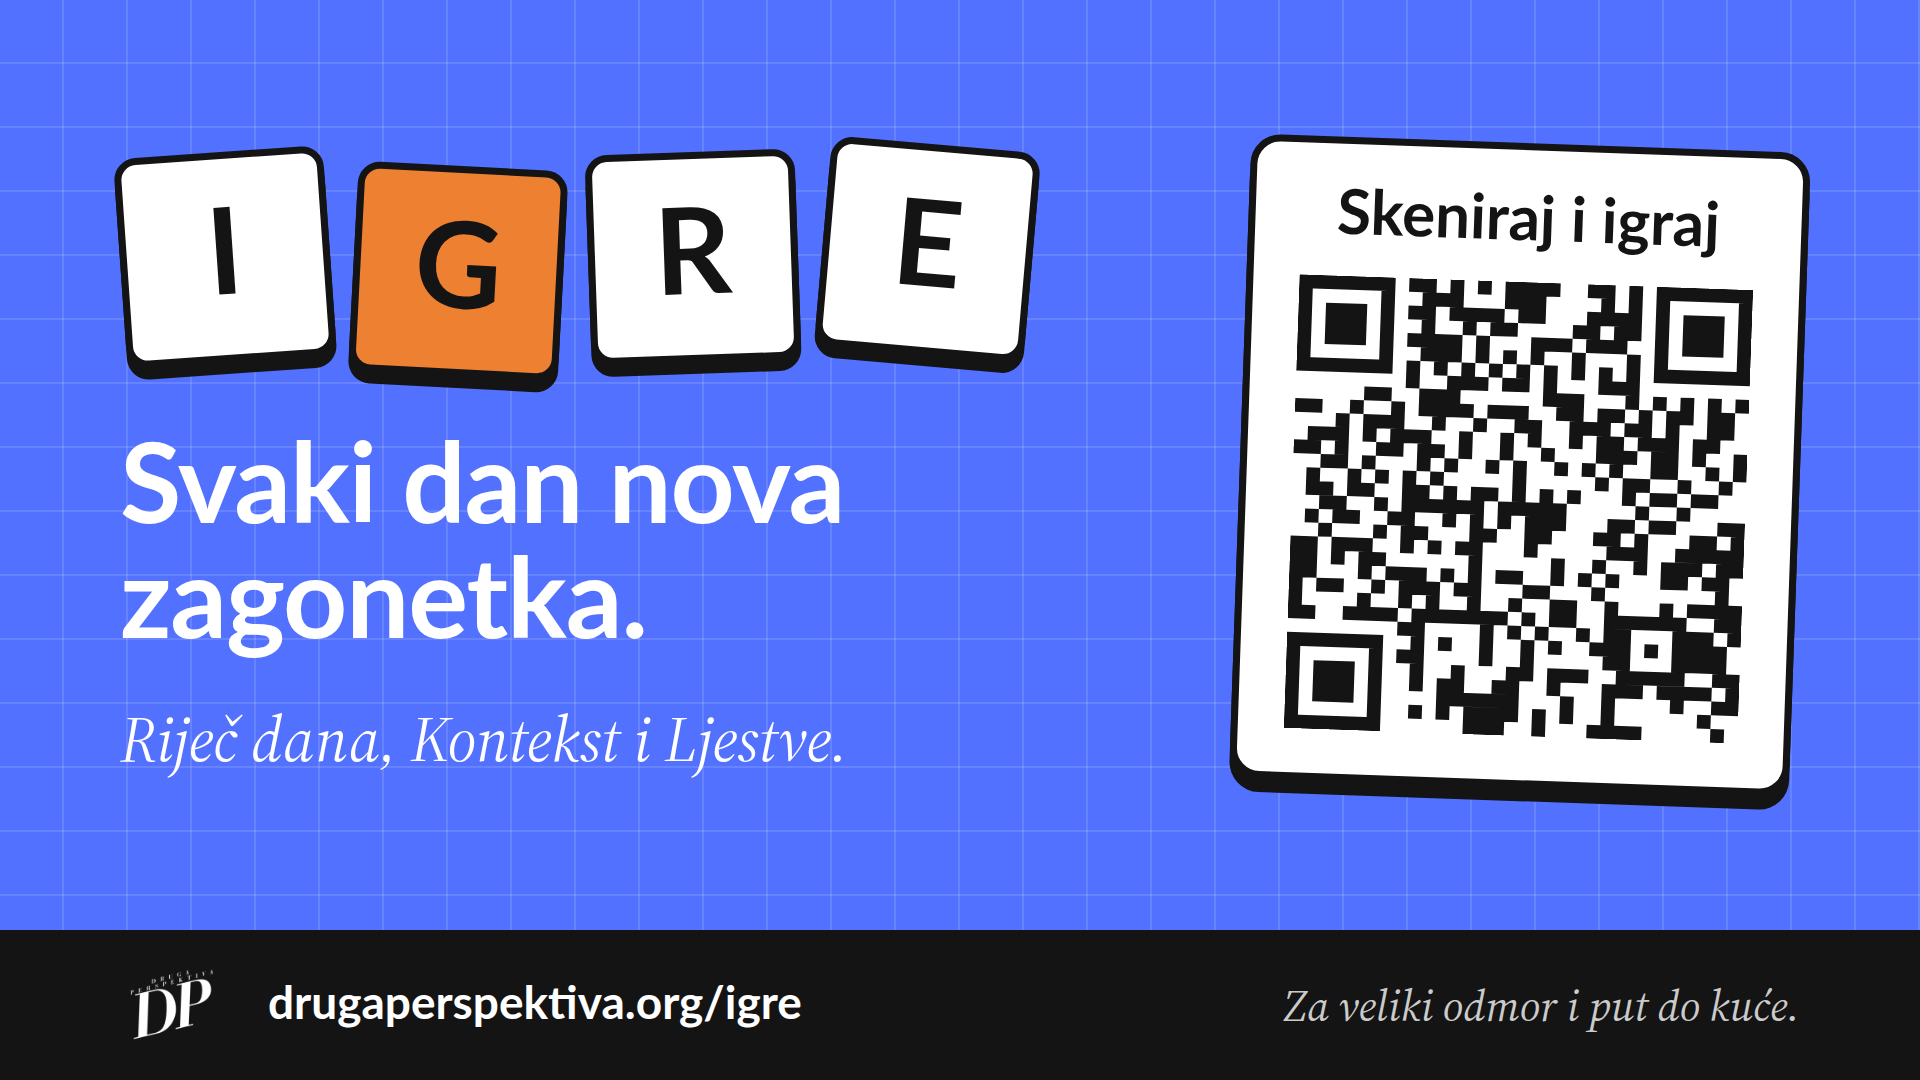
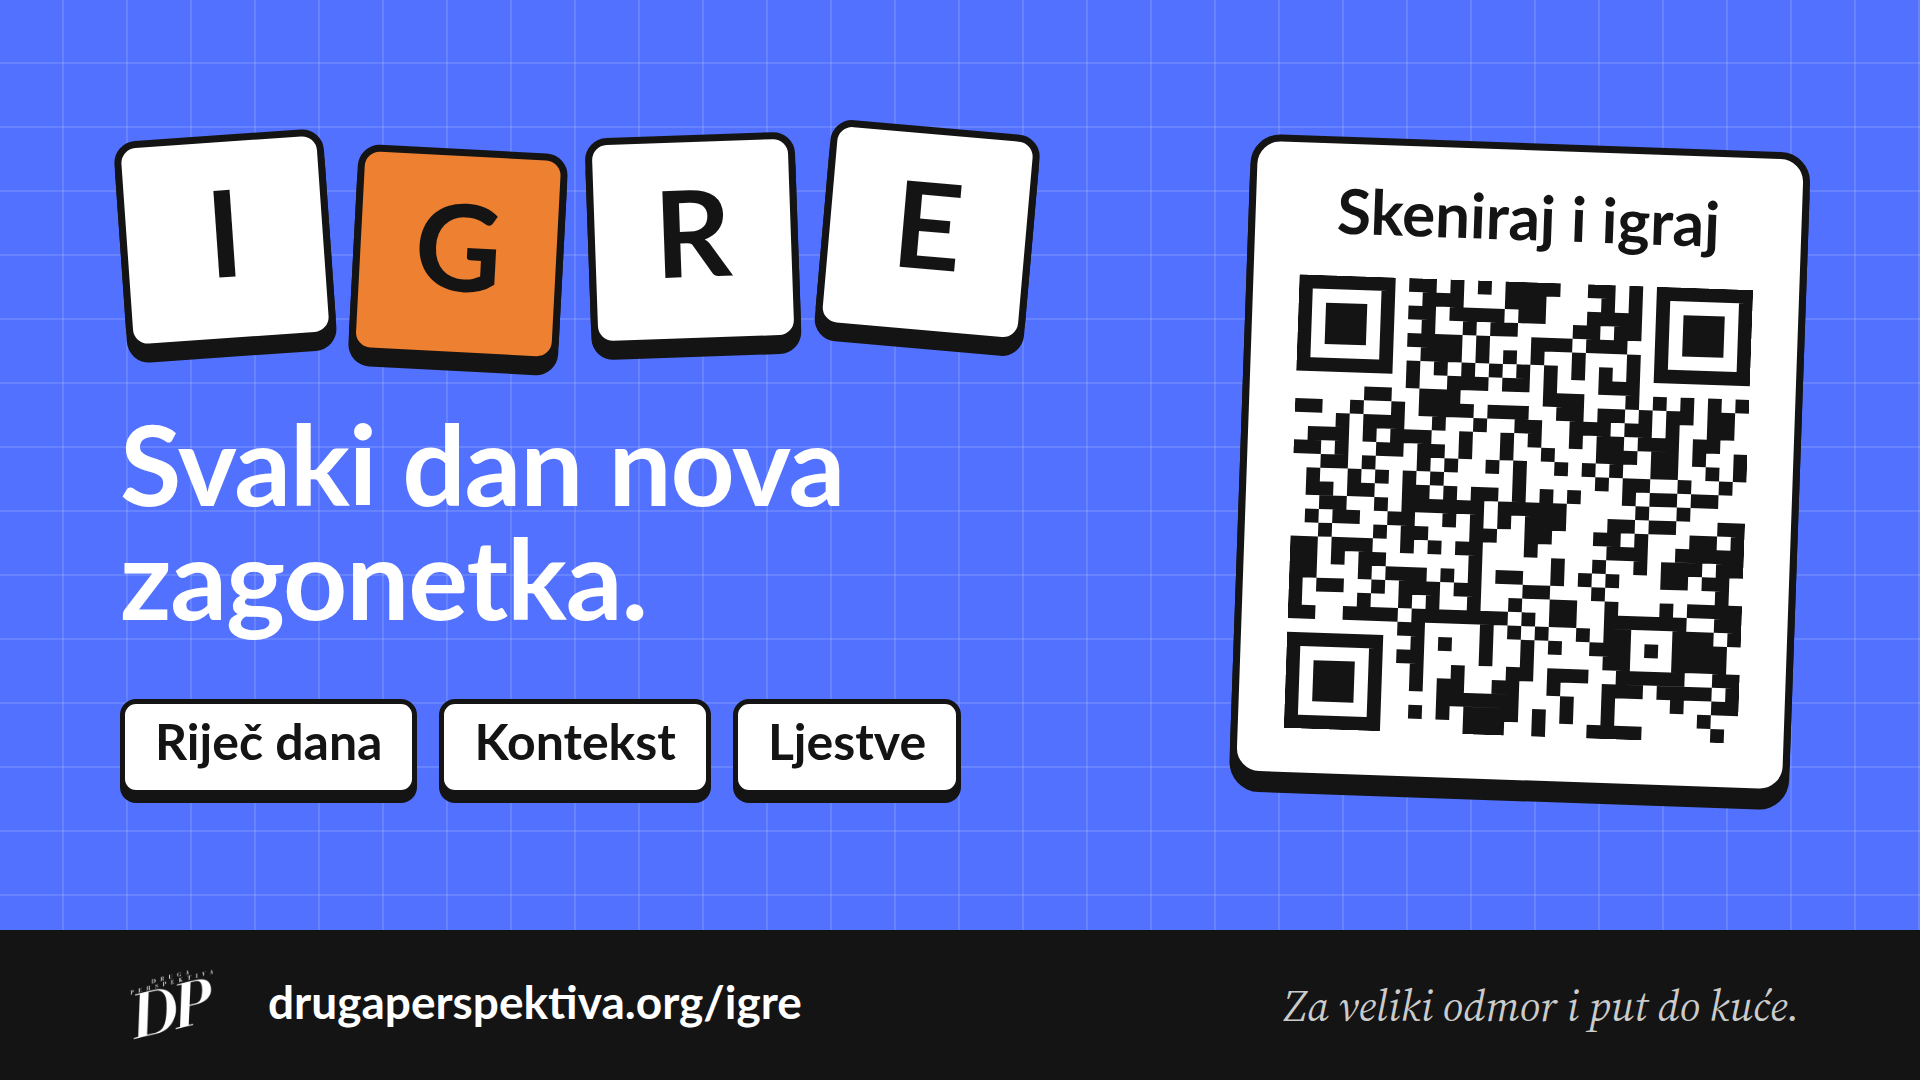
Promo: game names as white tile labels on the display slide
Claude-Session: https://claude.ai/code/session_01QPkDtEsER7FQnCPTtN3PAv

diff --git a/promo/igre-story/ekran.html b/promo/igre-story/ekran.html
@@ -71,13 +71,18 @@ h1 {
 	letter-spacing: -0.01em;
 }
 
-/* Imena igara kao kurziv podnaslov (dek), kao na sajtu. */
-.games {
-	margin: 40px 0 0;
-	font-family: "Source Serif 4", serif;
-	font-style: italic;
-	font-size: 64px;
-	line-height: 1.2;
+/* Imena igara na bijelim pločicama, isto kao slova i QR. */
+.games { display: flex; flex-wrap: wrap; gap: 22px; margin-top: 56px; }
+.games span {
+	padding: 16px 30px 20px;
+	border: 5px solid var(--tinta);
+	border-radius: 16px;
+	background: #fff;
+	box-shadow: 0 8px 0 var(--tinta);
+	color: var(--tinta);
+	font-size: 50px;
+	font-weight: 700;
+	line-height: 1;
 }
 
 /* QR kao naljepnica, malo nakrivljen. */
@@ -120,7 +125,7 @@ h1 {
 		<div>
 			<div class="tiles"><span class="tile">I</span><span class="tile">G</span><span class="tile">R</span><span class="tile">E</span></div>
 			<h1>Svaki dan nova zagonetka.</h1>
-			<p class="games">Riječ dana, Kontekst i Ljestve.</p>
+			<div class="games"><span>Riječ dana</span><span>Kontekst</span><span>Ljestve</span></div>
 		</div>
 		<div class="qr">
 			<b>Skeniraj i igraj</b>
